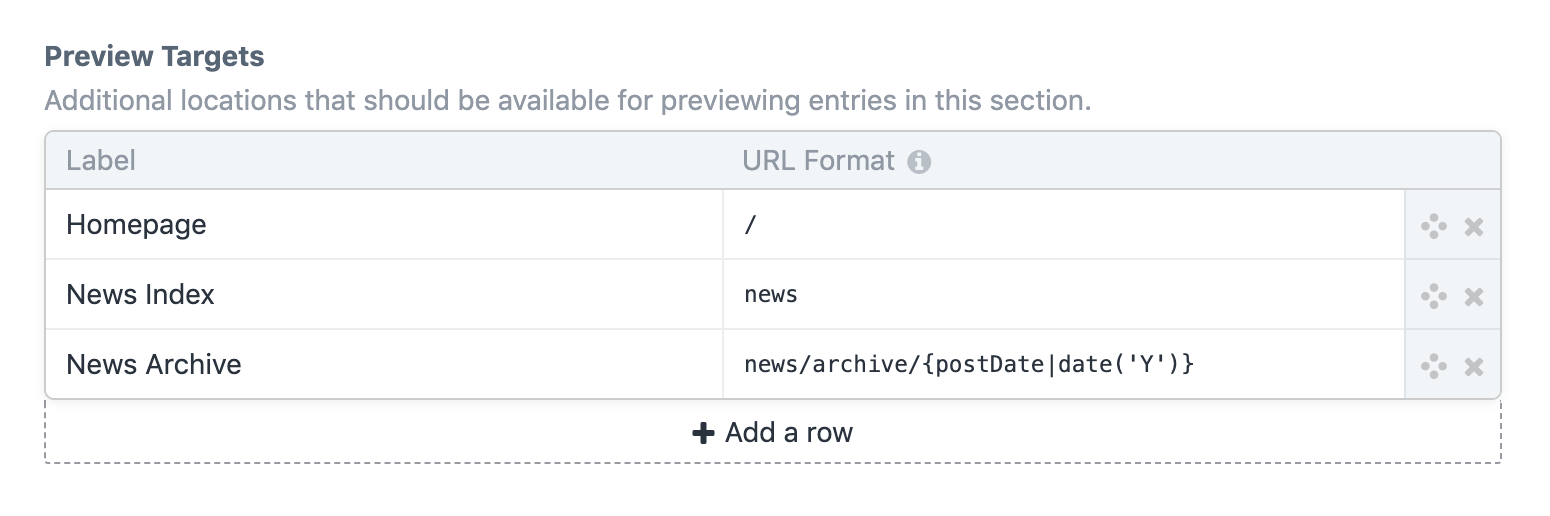
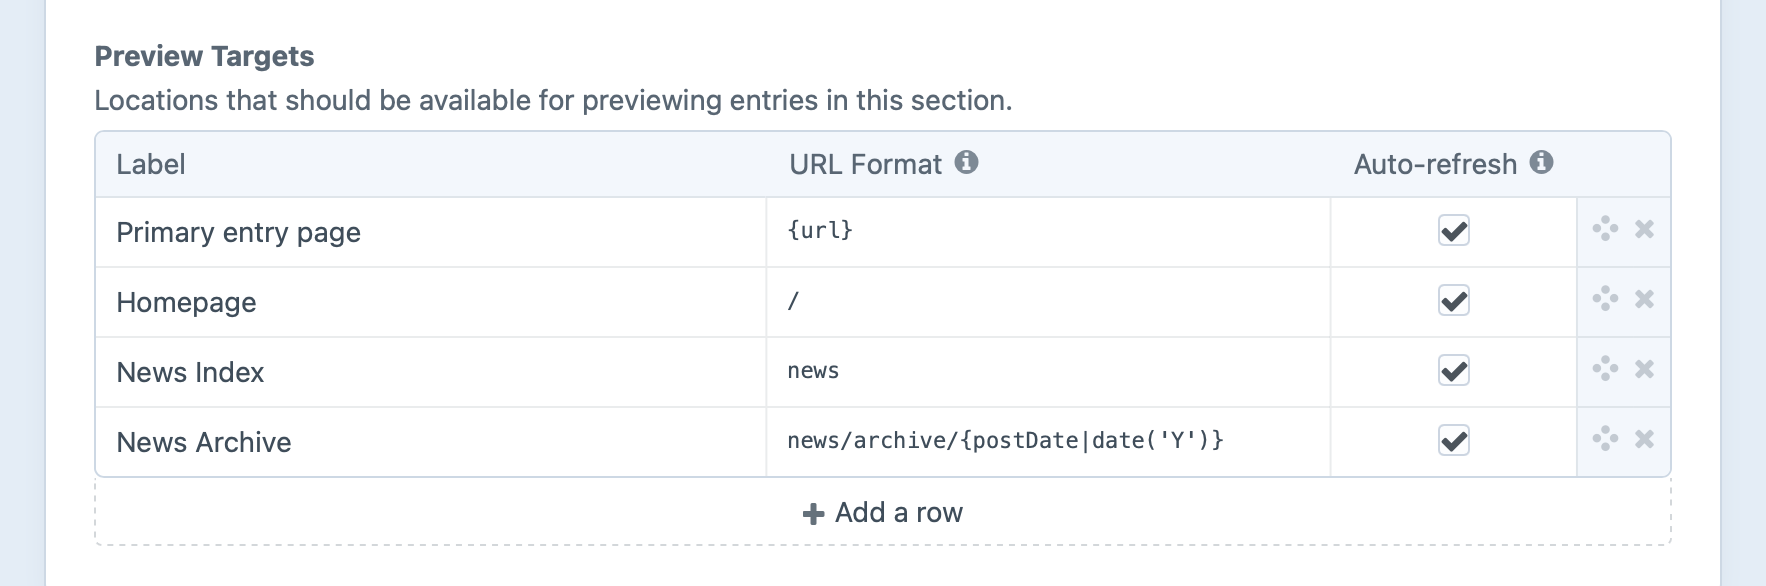
Update screenshots, note `defaultTokenDuration`, update Preview references.

diff --git a/docs/3.x/entries.md b/docs/3.x/entries.md
@@ -128,20 +128,22 @@ You can use environment variables and aliases in the preview target URL. These d
 Preview target URLs can include an attribute on the result of a query. Here double curly braces must be used (e.g. `{{ craft.entries.section('mySingle').one().url }}`).
 :::
 
-When an author is editing an entry from a section with custom preview targets, the **Share** button will be replaced with a menu that lists the **Primary entry page** (if the section has an Entry URI Format), plus the names of each preview target.
+When an author is editing an entry from a section with custom preview targets, the **View** button will be replaced with a menu that lists the **Primary entry page** (if the section has an Entry URI Format), plus the names of each preview target.
 
-![An entry’s Share menu with 3 custom preview targets.](./images/share-with-targets.png =294x)
+![An entry’s View menu with 3 custom preview targets.](./images/share-with-targets.png =394x)
 
-The targets will also be available within Live Preview.
+If you share a link from this menu that includes a preview token, it will expire by default after one day. You can customize this with the [defaultTokenDuration](config3:defaultTokenDuration) config setting.
+
+The targets will also be available within **Preview**.
 
 #### Previewing Decoupled Front Ends
 
-If your site’s front end lives outside of Craft, for example as a Vue or React app, you can still support previewing drafts and revisions with Live Preview or **Share** buttons. To do that, your front end must check for the existence of a `token` query string parameter (or whatever your <config3:tokenParam> config setting is set to). If it’s in the URL, then you will need to pass that same token in the Craft API request that loads the page content. This token will cause the API request to respond with the correct content based on what’s actually being previewed.
+If your site’s front end lives outside of Craft, for example as a Vue or React app, you can still support previewing drafts and revisions with **Preview** or **Share** buttons. To do that, your front end must check for the existence of a `token` query string parameter (or whatever your <config3:tokenParam> config setting is set to). If it’s in the URL, then you will need to pass that same token in the Craft API request that loads the page content. This token will cause the API request to respond with the correct content based on what’s actually being previewed.
 
 You can pass the token via either a query string parameter named after your <config3:tokenParam> config setting, or an `X-Craft-Token` header.
 
 ::: tip
-For Live Preview, you should also consider [enabling iFrame Resizer](config3:useIframeResizer) so that Craft can maintain the page scroll position between page loads.
+For live preview, you should also consider [enabling iFrame Resizer](config3:useIframeResizer) so that Craft can maintain the page scroll position between page loads.
 :::
 
 ## Entry Types
